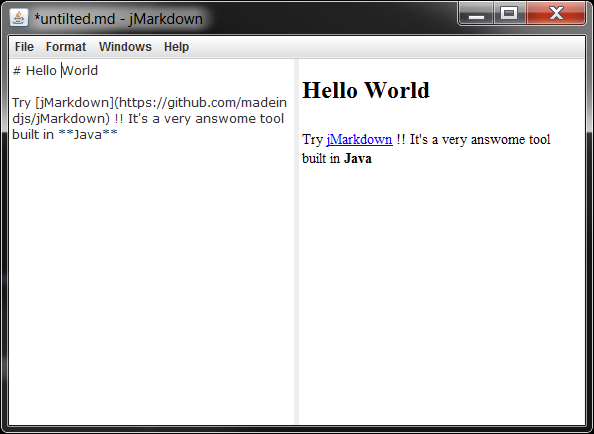
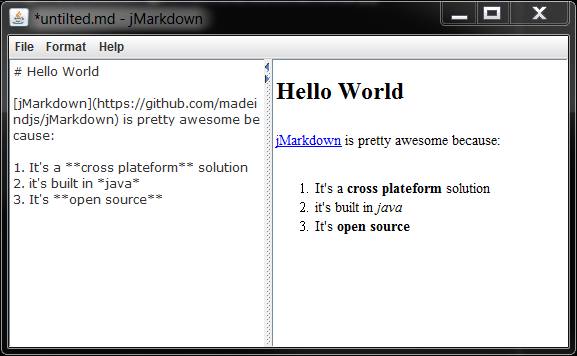
update readme a screenshot

diff --git a/README.md b/README.md
@@ -9,6 +9,19 @@ Description
 A **Java**-based, free and open source Markdown editor with live HTML preview 
 (inspired from [CuteMarkEd](https://cloose.github.io/CuteMarkEd/))
 
+![Screenshot of jMarkdown](https://raw.githubusercontent.com/madeindjs/jMarkdown/master/screenshot.png)
+
+
+Run the project
+---------------
+
+Clone this repository:
+
+    git clone https://github.com/madeindjs/jMarkdown.git
+
+Lauch from jar file:
+
+    java -jar dist/jMarkdown.jar
 
 To Do
 -----
